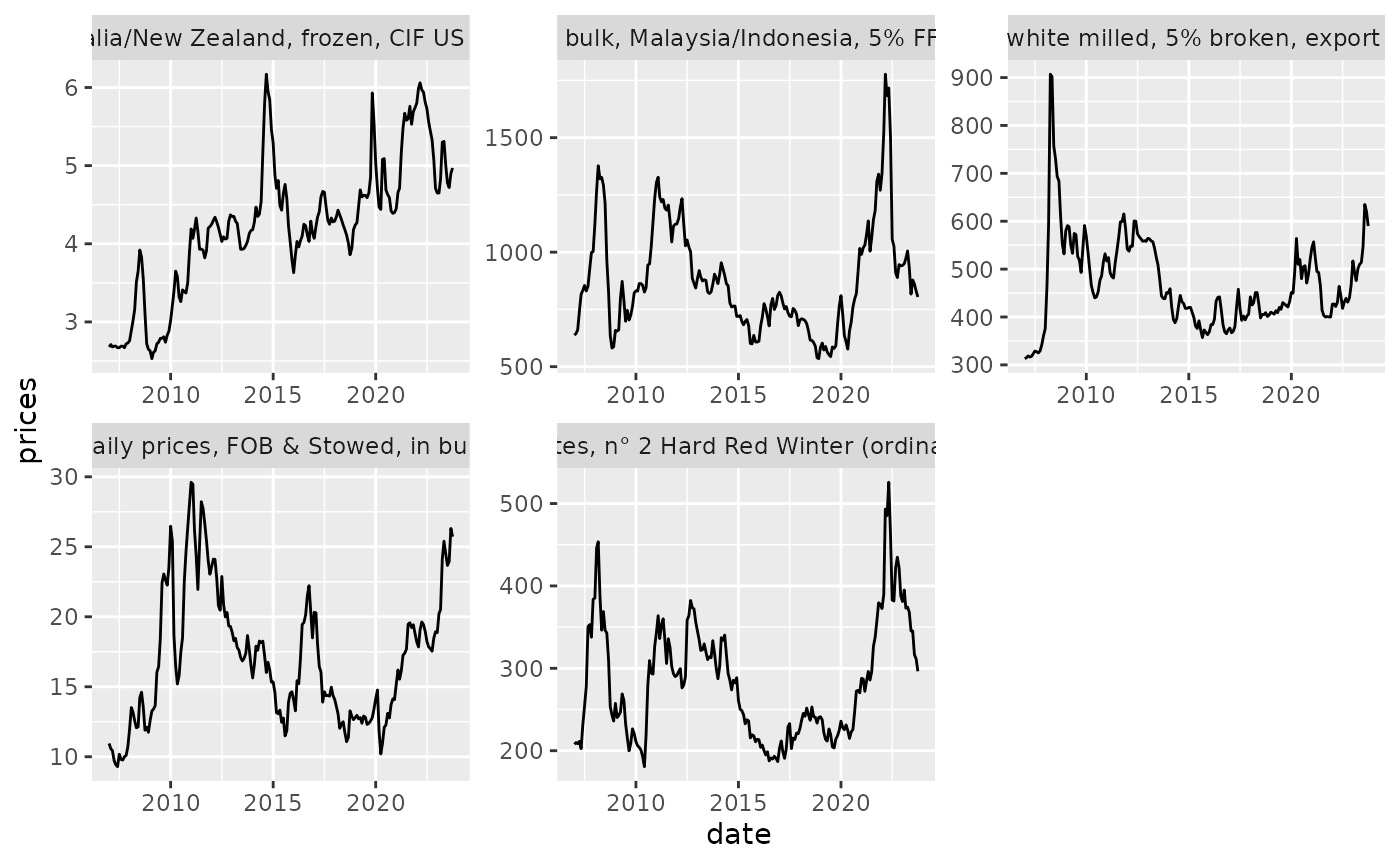
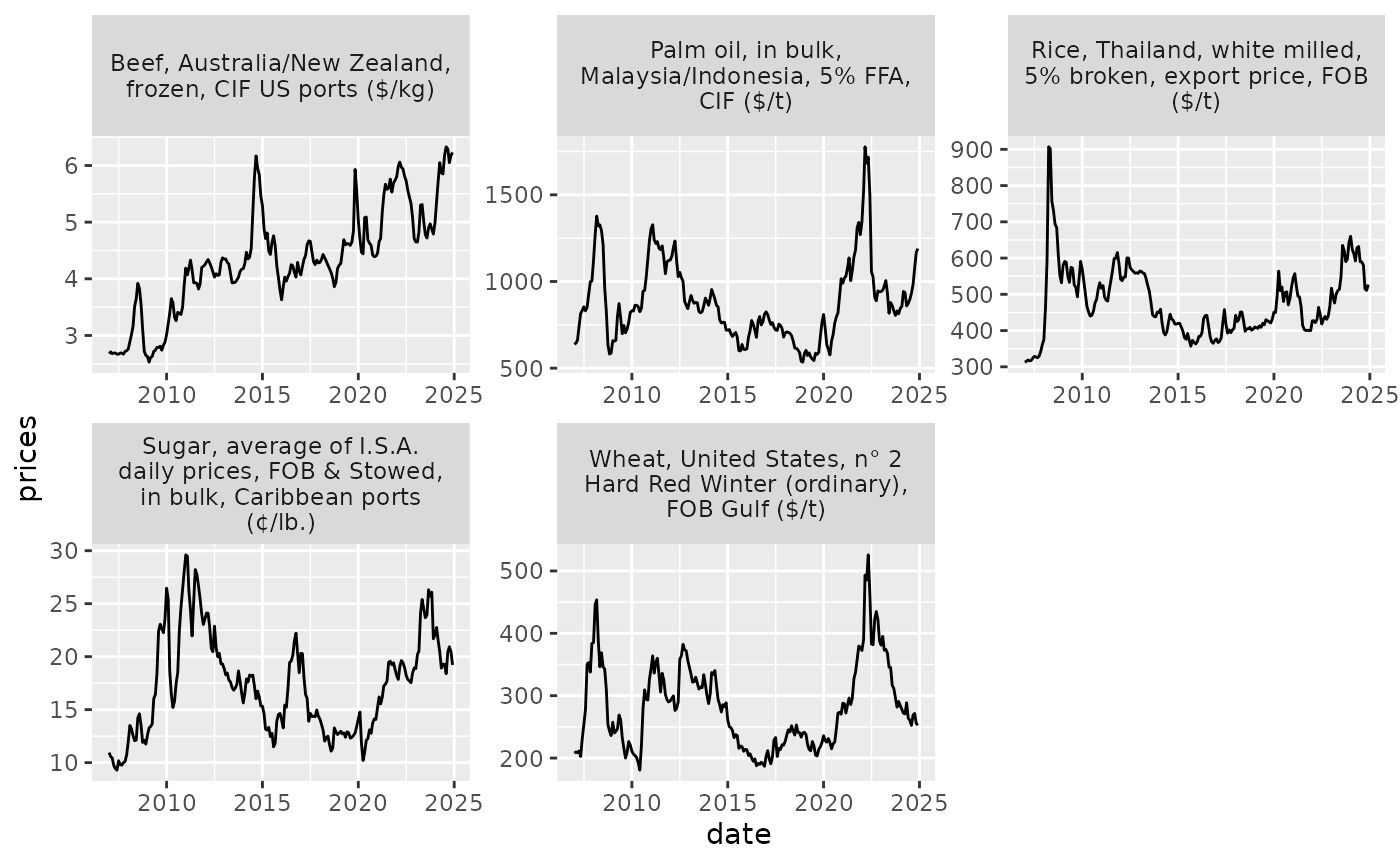
Deploying to gh-pages from @ FoodchainStats/fsp@3c094e2dc6ae31c552e94cc8bbcccd7931658ade 🚀

diff --git a/reference/acquire_unctad.html b/reference/acquire_unctad.html
@@ -1,9 +1,9 @@
 <!DOCTYPE html>
-<!-- Generated by pkgdown: do not edit by hand --><html lang="en"><head><meta http-equiv="Content-Type" content="text/html; charset=UTF-8"><meta charset="utf-8"><meta http-equiv="X-UA-Compatible" content="IE=edge"><meta name="viewport" content="width=device-width, initial-scale=1, shrink-to-fit=no"><title>Extract UNCTAD Commodity Price indices — acquire_unctad • fsp</title><script src="../deps/jquery-3.6.0/jquery-3.6.0.min.js"></script><meta name="viewport" content="width=device-width, initial-scale=1, shrink-to-fit=no"><link href="../deps/bootstrap-5.3.1/bootstrap.min.css" rel="stylesheet"><script src="../deps/bootstrap-5.3.1/bootstrap.bundle.min.js"></script><link href="../deps/font-awesome-6.5.2/css/all.min.css" rel="stylesheet"><link href="../deps/font-awesome-6.5.2/css/v4-shims.min.css" rel="stylesheet"><script src="../deps/headroom-0.11.0/headroom.min.js"></script><script src="../deps/headroom-0.11.0/jQuery.headroom.min.js"></script><script src="../deps/bootstrap-toc-1.0.1/bootstrap-toc.min.js"></script><script src="../deps/clipboard.js-2.0.11/clipboard.min.js"></script><script src="../deps/search-1.0.0/autocomplete.jquery.min.js"></script><script src="../deps/search-1.0.0/fuse.min.js"></script><script src="../deps/search-1.0.0/mark.min.js"></script><!-- pkgdown --><script src="../pkgdown.js"></script><meta property="og:title" content="Extract UNCTAD Commodity Price indices — acquire_unctad"><meta name="description" content="UNCTAD data is in 7zip format, and for now at least needs to be downloaded
-manually (see url_unctad()). Internally uses the archive library which
-requires libarchive-dev to be installed on Ubuntu machines."><meta property="og:description" content="UNCTAD data is in 7zip format, and for now at least needs to be downloaded
-manually (see url_unctad()). Internally uses the archive library which
-requires libarchive-dev to be installed on Ubuntu machines."></head><body>
+<!-- Generated by pkgdown: do not edit by hand --><html lang="en"><head><meta http-equiv="Content-Type" content="text/html; charset=UTF-8"><meta charset="utf-8"><meta http-equiv="X-UA-Compatible" content="IE=edge"><meta name="viewport" content="width=device-width, initial-scale=1, shrink-to-fit=no"><title>Extract UNCTAD Commodity Price indices — acquire_unctad • fsp</title><script src="../deps/jquery-3.6.0/jquery-3.6.0.min.js"></script><meta name="viewport" content="width=device-width, initial-scale=1, shrink-to-fit=no"><link href="../deps/bootstrap-5.3.1/bootstrap.min.css" rel="stylesheet"><script src="../deps/bootstrap-5.3.1/bootstrap.bundle.min.js"></script><link href="../deps/font-awesome-6.5.2/css/all.min.css" rel="stylesheet"><link href="../deps/font-awesome-6.5.2/css/v4-shims.min.css" rel="stylesheet"><script src="../deps/headroom-0.11.0/headroom.min.js"></script><script src="../deps/headroom-0.11.0/jQuery.headroom.min.js"></script><script src="../deps/bootstrap-toc-1.0.1/bootstrap-toc.min.js"></script><script src="../deps/clipboard.js-2.0.11/clipboard.min.js"></script><script src="../deps/search-1.0.0/autocomplete.jquery.min.js"></script><script src="../deps/search-1.0.0/fuse.min.js"></script><script src="../deps/search-1.0.0/mark.min.js"></script><!-- pkgdown --><script src="../pkgdown.js"></script><meta property="og:title" content="Extract UNCTAD Commodity Price indices — acquire_unctad"><meta name="description" content="Downloads and unzips UNCTAD data (see url_unctad()). Internally uses the
+archive library which requires libarchive-dev to be installed on Ubuntu
+machines."><meta property="og:description" content="Downloads and unzips UNCTAD data (see url_unctad()). Internally uses the
+archive library which requires libarchive-dev to be installed on Ubuntu
+machines."></head><body>
     <a href="#main" class="visually-hidden-focusable">Skip to contents</a>
 
 
@@ -43,25 +43,21 @@ requires libarchive-dev to be installed on Ubuntu machines."></head><body>
     </div>
 
     <div class="ref-description section level2">
-    <p>UNCTAD data is in 7zip format, and for now at least needs to be downloaded
-manually (see <code><a href="url_unctad.html">url_unctad()</a></code>). Internally uses the <code>archive</code> library which
-requires libarchive-dev to be installed on Ubuntu machines.</p>
+    <p>Downloads and unzips UNCTAD data (see <code><a href="url_unctad.html">url_unctad()</a></code>). Internally uses the
+<code>archive</code> library which requires libarchive-dev to be installed on Ubuntu
+machines.</p>
     </div>
 
     <div class="section level2">
     <h2 id="ref-usage">Usage<a class="anchor" aria-label="anchor" href="#ref-usage"></a></h2>
-    <div class="sourceCode"><pre class="sourceCode r"><code><span><span class="fu">acquire_unctad</span><span class="op">(</span><span class="va">file</span>, <span class="va">path</span><span class="op">)</span></span></code></pre></div>
+    <div class="sourceCode"><pre class="sourceCode r"><code><span><span class="fu">acquire_unctad</span><span class="op">(</span><span class="va">path</span><span class="op">)</span></span></code></pre></div>
     </div>
 
     <div class="section level2">
     <h2 id="arguments">Arguments<a class="anchor" aria-label="anchor" href="#arguments"></a></h2>
 
 
-<dl><dt id="arg-file">file<a class="anchor" aria-label="anchor" href="#arg-file"></a></dt>
-<dd><p>downloaded UNCTAD commodity data file in 7zip format</p></dd>
-
-
-<dt id="arg-path">path<a class="anchor" aria-label="anchor" href="#arg-path"></a></dt>
+<dl><dt id="arg-path">path<a class="anchor" aria-label="anchor" href="#arg-path"></a></dt>
 <dd><p>Folder to put the downloaded data in. If missing a tempfile will
 be created. If specified the downloaded file will be named
 'commodityprices.csv'.</p></dd>
@@ -80,12 +76,12 @@ be created. If specified the downloaded file will be named
 
     <div class="section level2">
     <h2 id="ref-examples">Examples<a class="anchor" aria-label="anchor" href="#ref-examples"></a></h2>
-    <div class="sourceCode"><pre class="sourceCode r"><code><span class="r-in"><span></span></span>
-<span class="r-in"><span><span class="va">a</span> <span class="op">&lt;-</span> <span class="fu"><a href="https://rdrr.io/r/base/system.file.html" class="external-link">system.file</a></span><span class="op">(</span><span class="st">"extdata"</span>, <span class="st">"unctad-example.csv.7z"</span>, package <span class="op">=</span> <span class="st">"fsp"</span><span class="op">)</span></span></span>
+    <div class="sourceCode"><pre class="sourceCode r"><code><span class="r-in"><span><span class="kw">if</span> <span class="op">(</span><span class="cn">FALSE</span><span class="op">)</span> <span class="op">{</span> <span class="co"># \dontrun{</span></span></span>
+<span class="r-in"><span><span class="va">a</span> <span class="op">&lt;-</span> <span class="fu">acquire_unctad</span><span class="op">(</span><span class="va">a</span><span class="op">)</span></span></span>
 <span class="r-in"><span><span class="va">a</span></span></span>
-<span class="r-out co"><span class="r-pr">#&gt;</span> [1] "/home/runner/work/_temp/Library/fsp/extdata/unctad-example.csv.7z"</span>
-<span class="r-in"><span><span class="fu">acquire_unctad</span><span class="op">(</span><span class="va">a</span><span class="op">)</span></span></span>
-<span class="r-out co"><span class="r-pr">#&gt;</span> [1] "/tmp/RtmpBiI4ut/file1d95329b787b/US_CommodityPrice_M_20231206030105.csv"</span>
+<span class="r-in"><span></span></span>
+<span class="r-in"><span><span class="fu">acquire_unctad</span><span class="op">(</span><span class="st">"~/downloads"</span><span class="op">)</span></span></span>
+<span class="r-in"><span><span class="op">}</span> <span class="co"># }</span></span></span>
 </code></pre></div>
     </div>
   </main><aside class="col-md-3"><nav id="toc" aria-label="Table of contents"><h2>On this page</h2>

diff --git a/articles/unctad.html b/articles/unctad.html
@@ -68,11 +68,17 @@
     
 <div class="sourceCode" id="cb1"><pre class="downlit sourceCode r">
 <code class="sourceCode R"><span><span class="kw"><a href="https://rdrr.io/r/base/library.html" class="external-link">library</a></span><span class="op">(</span><span class="va"><a href="https://foodchainstats.github.io/fsp/">fsp</a></span><span class="op">)</span></span>
-<span><span class="va">a</span> <span class="op">&lt;-</span> <span class="fu"><a href="https://rdrr.io/r/base/system.file.html" class="external-link">system.file</a></span><span class="op">(</span><span class="st">"extdata"</span>, <span class="st">"unctad-example.csv.7z"</span>, package <span class="op">=</span> <span class="st">"fsp"</span><span class="op">)</span></span>
+<span></span>
+<span><span class="va">a</span> <span class="op">&lt;-</span> <span class="fu"><a href="../reference/acquire_unctad.html">acquire_unctad</a></span><span class="op">(</span><span class="op">)</span></span>
+<span></span>
 <span><span class="va">unctad</span> <span class="op">&lt;-</span> <span class="fu"><a href="../reference/get_unctad.html">get_unctad</a></span><span class="op">(</span><span class="va">a</span><span class="op">)</span></span>
 <span><span class="va">metadata</span> <span class="op">&lt;-</span> <span class="fu"><a href="../reference/get_unctad_metadata.html">get_unctad_metadata</a></span><span class="op">(</span><span class="va">a</span><span class="op">)</span></span>
 <span></span>
-<span><span class="va">commodities</span> <span class="op">&lt;-</span> <span class="fu"><a href="https://rdrr.io/r/base/c.html" class="external-link">c</a></span><span class="op">(</span><span class="st">"100600.01"</span>, <span class="st">"151110.01"</span>, <span class="st">"020100.01"</span>, <span class="st">"100100.01"</span>, <span class="st">"170100.01"</span><span class="op">)</span></span>
+<span><span class="va">commodities</span> <span class="op">&lt;-</span> <span class="fu"><a href="https://rdrr.io/r/base/c.html" class="external-link">c</a></span><span class="op">(</span><span class="st">"100600.01"</span>,</span>
+<span>                 <span class="st">"151110.01"</span>, </span>
+<span>                 <span class="st">"020100.01"</span>,</span>
+<span>                 <span class="st">"100100.01"</span>, </span>
+<span>                 <span class="st">"170100.01"</span><span class="op">)</span></span>
 <span></span>
 <span><span class="va">unctad</span> <span class="op">|&gt;</span> </span>
 <span>  <span class="fu">dplyr</span><span class="fu">::</span><span class="fu"><a href="https://dplyr.tidyverse.org/reference/filter.html" class="external-link">filter</a></span><span class="op">(</span><span class="va">commodity</span> <span class="op"><a href="https://rdrr.io/r/base/match.html" class="external-link">%in%</a></span> <span class="va">commodities</span>, <span class="va">date</span> <span class="op">&gt;=</span> <span class="st">"2007-01-01"</span><span class="op">)</span> <span class="op">|&gt;</span> </span>
@@ -80,7 +86,9 @@
 <span>  <span class="fu">dplyr</span><span class="fu">::</span><span class="fu"><a href="https://dplyr.tidyverse.org/reference/mutate.html" class="external-link">mutate</a></span><span class="op">(</span>index <span class="op">=</span> <span class="va">prices</span><span class="op">/</span><span class="fu">dplyr</span><span class="fu">::</span><span class="fu"><a href="https://dplyr.tidyverse.org/reference/lead-lag.html" class="external-link">lag</a></span><span class="op">(</span><span class="va">prices</span><span class="op">)</span><span class="op">)</span> <span class="op">|&gt;</span> </span>
 <span>  <span class="fu">ggplot2</span><span class="fu">::</span><span class="fu"><a href="https://ggplot2.tidyverse.org/reference/ggplot.html" class="external-link">ggplot</a></span><span class="op">(</span><span class="op">)</span> <span class="op">+</span></span>
 <span>  <span class="fu">ggplot2</span><span class="fu">::</span><span class="fu"><a href="https://ggplot2.tidyverse.org/reference/geom_path.html" class="external-link">geom_line</a></span><span class="op">(</span><span class="fu">ggplot2</span><span class="fu">::</span><span class="fu"><a href="https://ggplot2.tidyverse.org/reference/aes.html" class="external-link">aes</a></span><span class="op">(</span>x <span class="op">=</span> <span class="va">date</span>, y <span class="op">=</span> <span class="va">prices</span><span class="op">)</span><span class="op">)</span> <span class="op">+</span></span>
-<span>  <span class="fu">ggplot2</span><span class="fu">::</span><span class="fu"><a href="https://ggplot2.tidyverse.org/reference/facet_wrap.html" class="external-link">facet_wrap</a></span><span class="op">(</span><span class="fu">ggplot2</span><span class="fu">::</span><span class="fu"><a href="https://ggplot2.tidyverse.org/reference/vars.html" class="external-link">vars</a></span><span class="op">(</span><span class="va">commodity_label</span><span class="op">)</span>,scales <span class="op">=</span> <span class="st">"free"</span><span class="op">)</span></span></code></pre></div>
+<span>  <span class="fu">ggplot2</span><span class="fu">::</span><span class="fu"><a href="https://ggplot2.tidyverse.org/reference/facet_wrap.html" class="external-link">facet_wrap</a></span><span class="op">(</span><span class="fu">ggplot2</span><span class="fu">::</span><span class="fu"><a href="https://ggplot2.tidyverse.org/reference/vars.html" class="external-link">vars</a></span><span class="op">(</span><span class="va">commodity_label</span><span class="op">)</span>, </span>
+<span>                      labeller <span class="op">=</span> <span class="fu">ggplot2</span><span class="fu">::</span><span class="fu"><a href="https://ggplot2.tidyverse.org/reference/labellers.html" class="external-link">label_wrap_gen</a></span><span class="op">(</span><span class="fl">30</span><span class="op">)</span>, </span>
+<span>                      scales <span class="op">=</span> <span class="st">"free"</span><span class="op">)</span></span></code></pre></div>
 <p><img src="unctad_files/figure-html/setup-1.png" width="700"></p>
   </main>
 </div>

diff --git a/reference/get_unctad.html b/reference/get_unctad.html
@@ -52,8 +52,8 @@
 
 
 <dl><dt id="arg-file">file<a class="anchor" aria-label="anchor" href="#arg-file"></a></dt>
-<dd><p>An UNCTAD 7zip download file (see <code><a href="url_unctad.html">url_unctad()</a></code> for where to get
-it)</p></dd>
+<dd><p>An UNCTAD download file (see <code><a href="acquire_unctad.html">acquire_unctad()</a></code>). If omitted data
+will be downloaded automatically</p></dd>
 
 </dl></div>
     <div class="section level2">
@@ -69,27 +69,13 @@ it)</p></dd>
 
     <div class="section level2">
     <h2 id="ref-examples">Examples<a class="anchor" aria-label="anchor" href="#ref-examples"></a></h2>
-    <div class="sourceCode"><pre class="sourceCode r"><code><span class="r-in"><span></span></span>
-<span class="r-in"><span><span class="va">a</span> <span class="op">&lt;-</span> <span class="fu"><a href="https://rdrr.io/r/base/system.file.html" class="external-link">system.file</a></span><span class="op">(</span><span class="st">"extdata"</span>, <span class="st">"unctad-example.csv.7z"</span>, package <span class="op">=</span> <span class="st">"fsp"</span><span class="op">)</span></span></span>
-<span class="r-in"><span><span class="va">a</span></span></span>
-<span class="r-out co"><span class="r-pr">#&gt;</span> [1] "/home/runner/work/_temp/Library/fsp/extdata/unctad-example.csv.7z"</span>
-<span class="r-in"><span><span class="fu">get_unctad</span><span class="op">(</span><span class="va">a</span><span class="op">)</span></span></span>
-<span class="r-out co"><span class="r-pr">#&gt;</span> <span style="color: #949494;"># A tibble: 18,910 × 6</span></span>
-<span class="r-out co"><span class="r-pr">#&gt;</span>    date       commodity commodity_label                   prices prices_footnote</span>
-<span class="r-out co"><span class="r-pr">#&gt;</span>    <span style="color: #949494; font-style: italic;">&lt;date&gt;</span>     <span style="color: #949494; font-style: italic;">&lt;chr&gt;</span>     <span style="color: #949494; font-style: italic;">&lt;chr&gt;</span>                              <span style="color: #949494; font-style: italic;">&lt;dbl&gt;</span> <span style="color: #949494; font-style: italic;">&lt;chr&gt;</span>          </span>
-<span class="r-out co"><span class="r-pr">#&gt;</span> <span style="color: #BCBCBC;"> 1</span> 1995-01-01 IN0001.20 All groups                         <span style="color: #BB0000;">NA</span>    <span style="color: #BB0000;">NA</span>             </span>
-<span class="r-out co"><span class="r-pr">#&gt;</span> <span style="color: #BCBCBC;"> 2</span> 1995-01-01 IN0001.01 All food                           <span style="color: #BB0000;">NA</span>    <span style="color: #BB0000;">NA</span>             </span>
-<span class="r-out co"><span class="r-pr">#&gt;</span> <span style="color: #BCBCBC;"> 3</span> 1995-01-01 IN0001.02 Food                               <span style="color: #BB0000;">NA</span>    <span style="color: #BB0000;">NA</span>             </span>
-<span class="r-out co"><span class="r-pr">#&gt;</span> <span style="color: #BCBCBC;"> 4</span> 1995-01-01 080300.01 Bananas, Central and South Ameri…   0.35 <span style="color: #BB0000;">NA</span>             </span>
-<span class="r-out co"><span class="r-pr">#&gt;</span> <span style="color: #BCBCBC;"> 5</span> 1995-01-01 020100.01 Beef, Australia/New Zealand, fro…   2.12 <span style="color: #BB0000;">NA</span>             </span>
-<span class="r-out co"><span class="r-pr">#&gt;</span> <span style="color: #BCBCBC;"> 6</span> 1995-01-01 100500.01 Maize, Argentina, Rosario, Up Ri… 105.   <span style="color: #BB0000;">NA</span>             </span>
-<span class="r-out co"><span class="r-pr">#&gt;</span> <span style="color: #BCBCBC;"> 7</span> 1995-01-01 100500.02 Maize, United States, n° 3 yello… 109.   <span style="color: #BB0000;">NA</span>             </span>
-<span class="r-out co"><span class="r-pr">#&gt;</span> <span style="color: #BCBCBC;"> 8</span> 1995-01-01 100600.01 Rice, Thailand, white milled, 5%… 277.   <span style="color: #BB0000;">NA</span>             </span>
-<span class="r-out co"><span class="r-pr">#&gt;</span> <span style="color: #BCBCBC;"> 9</span> 1995-01-01 030212.01 Salmon, fresh, fish-farm bred, e…   4.81 <span style="color: #BB0000;">NA</span>             </span>
-<span class="r-out co"><span class="r-pr">#&gt;</span> <span style="color: #BCBCBC;">10</span> 1995-01-01 030613.01 Shrimps, brown, no. 1, shell-on,…  13.4  <span style="color: #BB0000;">NA</span>             </span>
-<span class="r-out co"><span class="r-pr">#&gt;</span> <span style="color: #949494;"># ℹ 18,900 more rows</span></span>
-<span class="r-out co"><span class="r-pr">#&gt;</span> <span style="color: #949494;"># ℹ 1 more variable: prices_missing_value &lt;chr&gt;</span></span>
+    <div class="sourceCode"><pre class="sourceCode r"><code><span class="r-in"><span><span class="kw">if</span> <span class="op">(</span><span class="cn">FALSE</span><span class="op">)</span> <span class="op">{</span> <span class="co"># \dontrun{</span></span></span>
+<span class="r-in"><span><span class="va">data</span> <span class="op">&lt;-</span> <span class="fu">get_unctad</span><span class="op">(</span><span class="op">)</span></span></span>
 <span class="r-in"><span></span></span>
+<span class="r-in"><span><span class="fu"><a href="acquire_unctad.html">acquire_unctad</a></span><span class="op">(</span><span class="st">"~/downloads"</span><span class="op">)</span></span></span>
+<span class="r-in"><span></span></span>
+<span class="r-in"><span><span class="fu">get_unctad</span><span class="op">(</span><span class="st">"~/downloads/commodityprices.csv"</span><span class="op">)</span></span></span>
+<span class="r-in"><span><span class="op">}</span> <span class="co"># }</span></span></span>
 </code></pre></div>
     </div>
   </main><aside class="col-md-3"><nav id="toc" aria-label="Table of contents"><h2>On this page</h2>

diff --git a/reference/url_unctad.html b/reference/url_unctad.html
@@ -1,15 +1,11 @@
 <!DOCTYPE html>
-<!-- Generated by pkgdown: do not edit by hand --><html lang="en"><head><meta http-equiv="Content-Type" content="text/html; charset=UTF-8"><meta charset="utf-8"><meta http-equiv="X-UA-Compatible" content="IE=edge"><meta name="viewport" content="width=device-width, initial-scale=1, shrink-to-fit=no"><title>URL for UNCTAD commodity price indices data — url_unctad • fsp</title><script src="../deps/jquery-3.6.0/jquery-3.6.0.min.js"></script><meta name="viewport" content="width=device-width, initial-scale=1, shrink-to-fit=no"><link href="../deps/bootstrap-5.3.1/bootstrap.min.css" rel="stylesheet"><script src="../deps/bootstrap-5.3.1/bootstrap.bundle.min.js"></script><link href="../deps/font-awesome-6.5.2/css/all.min.css" rel="stylesheet"><link href="../deps/font-awesome-6.5.2/css/v4-shims.min.css" rel="stylesheet"><script src="../deps/headroom-0.11.0/headroom.min.js"></script><script src="../deps/headroom-0.11.0/jQuery.headroom.min.js"></script><script src="../deps/bootstrap-toc-1.0.1/bootstrap-toc.min.js"></script><script src="../deps/clipboard.js-2.0.11/clipboard.min.js"></script><script src="../deps/search-1.0.0/autocomplete.jquery.min.js"></script><script src="../deps/search-1.0.0/fuse.min.js"></script><script src="../deps/search-1.0.0/mark.min.js"></script><!-- pkgdown --><script src="../pkgdown.js"></script><meta property="og:title" content="URL for UNCTAD commodity price indices data — url_unctad"><meta name="description" content='Currently the data cannot be scraped (or I am not clever enough to do so),
-and so this function simply returns the url where it can be manually
-downloaded. The file is a 7zip archive. The acquire_unctad(), get_unctad()
-and get_unctad_metadata() functions all require access to a downloaded
-7zip. This package includes an example file - access it using:
-system.file("extdata", "unctad-example.csv.7z", package = "fsp")'><meta property="og:description" content='Currently the data cannot be scraped (or I am not clever enough to do so),
-and so this function simply returns the url where it can be manually
-downloaded. The file is a 7zip archive. The acquire_unctad(), get_unctad()
-and get_unctad_metadata() functions all require access to a downloaded
-7zip. This package includes an example file - access it using:
-system.file("extdata", "unctad-example.csv.7z", package = "fsp")'></head><body>
+<!-- Generated by pkgdown: do not edit by hand --><html lang="en"><head><meta http-equiv="Content-Type" content="text/html; charset=UTF-8"><meta charset="utf-8"><meta http-equiv="X-UA-Compatible" content="IE=edge"><meta name="viewport" content="width=device-width, initial-scale=1, shrink-to-fit=no"><title>URL for UNCTAD commodity price indices data — url_unctad • fsp</title><script src="../deps/jquery-3.6.0/jquery-3.6.0.min.js"></script><meta name="viewport" content="width=device-width, initial-scale=1, shrink-to-fit=no"><link href="../deps/bootstrap-5.3.1/bootstrap.min.css" rel="stylesheet"><script src="../deps/bootstrap-5.3.1/bootstrap.bundle.min.js"></script><link href="../deps/font-awesome-6.5.2/css/all.min.css" rel="stylesheet"><link href="../deps/font-awesome-6.5.2/css/v4-shims.min.css" rel="stylesheet"><script src="../deps/headroom-0.11.0/headroom.min.js"></script><script src="../deps/headroom-0.11.0/jQuery.headroom.min.js"></script><script src="../deps/bootstrap-toc-1.0.1/bootstrap-toc.min.js"></script><script src="../deps/clipboard.js-2.0.11/clipboard.min.js"></script><script src="../deps/search-1.0.0/autocomplete.jquery.min.js"></script><script src="../deps/search-1.0.0/fuse.min.js"></script><script src="../deps/search-1.0.0/mark.min.js"></script><!-- pkgdown --><script src="../pkgdown.js"></script><meta property="og:title" content="URL for UNCTAD commodity price indices data — url_unctad"><meta name="description" content='When pasted into a browser, the url will download a file in the form of a
+7zip archive. The acquire_unctad(), get_unctad() and
+get_unctad_metadata() functions will download and unzip this file. This
+package includes an example file - access it using: system.file("extdata", "unctad-example.csv.7z", package = "fsp")'><meta property="og:description" content='When pasted into a browser, the url will download a file in the form of a
+7zip archive. The acquire_unctad(), get_unctad() and
+get_unctad_metadata() functions will download and unzip this file. This
+package includes an example file - access it using: system.file("extdata", "unctad-example.csv.7z", package = "fsp")'></head><body>
     <a href="#main" class="visually-hidden-focusable">Skip to contents</a>
 
 
@@ -49,12 +45,10 @@ system.file("extdata", "unctad-example.csv.7z", package = "fsp")'></head><body>
     </div>
 
     <div class="ref-description section level2">
-    <p>Currently the data cannot be scraped (or I am not clever enough to do so),
-and so this function simply returns the url where it can be manually
-downloaded. The file is a 7zip archive. The <code><a href="acquire_unctad.html">acquire_unctad()</a></code>, <code><a href="get_unctad.html">get_unctad()</a></code>
-and <code><a href="get_unctad_metadata.html">get_unctad_metadata()</a></code> functions all require access to a downloaded
-7zip. This package includes an example file - access it using:
-<code>system.file("extdata", "unctad-example.csv.7z", package = "fsp")</code></p>
+    <p>When pasted into a browser, the url will download a file in the form of a
+7zip archive. The <code><a href="acquire_unctad.html">acquire_unctad()</a></code>, <code><a href="get_unctad.html">get_unctad()</a></code> and
+<code><a href="get_unctad_metadata.html">get_unctad_metadata()</a></code> functions will download and unzip this file. This
+package includes an example file - access it using: <code>system.file("extdata", "unctad-example.csv.7z", package = "fsp")</code></p>
     </div>
 
     <div class="section level2">

diff --git a/reference/get_unctad_metadata.html b/reference/get_unctad_metadata.html
@@ -52,8 +52,8 @@
 
 
 <dl><dt id="arg-file">file<a class="anchor" aria-label="anchor" href="#arg-file"></a></dt>
-<dd><p>An UNCTAD 7zip download file (see <code><a href="url_unctad.html">url_unctad()</a></code> for where to get
-it)</p></dd>
+<dd><p>An UNCTAD download file (see <code><a href="acquire_unctad.html">acquire_unctad()</a></code>). If omitted data
+will be downloaded automatically</p></dd>
 
 </dl></div>
     <div class="section level2">
@@ -69,24 +69,13 @@ it)</p></dd>
 
     <div class="section level2">
     <h2 id="ref-examples">Examples<a class="anchor" aria-label="anchor" href="#ref-examples"></a></h2>
-    <div class="sourceCode"><pre class="sourceCode r"><code><span class="r-in"><span><span class="va">a</span> <span class="op">&lt;-</span> <span class="fu"><a href="https://rdrr.io/r/base/system.file.html" class="external-link">system.file</a></span><span class="op">(</span><span class="st">"extdata"</span>, <span class="st">"unctad-example.csv.7z"</span>, package <span class="op">=</span> <span class="st">"fsp"</span><span class="op">)</span></span></span>
-<span class="r-in"><span><span class="va">a</span></span></span>
-<span class="r-out co"><span class="r-pr">#&gt;</span> [1] "/home/runner/work/_temp/Library/fsp/extdata/unctad-example.csv.7z"</span>
-<span class="r-in"><span><span class="fu">get_unctad_metadata</span><span class="op">(</span><span class="va">a</span><span class="op">)</span></span></span>
-<span class="r-out co"><span class="r-pr">#&gt;</span> <span style="color: #949494;"># A tibble: 58 × 3</span></span>
-<span class="r-out co"><span class="r-pr">#&gt;</span>    commodity commodity_label                                                   n</span>
-<span class="r-out co"><span class="r-pr">#&gt;</span>    <span style="color: #949494; font-style: italic;">&lt;chr&gt;</span>     <span style="color: #949494; font-style: italic;">&lt;chr&gt;</span>                                                         <span style="color: #949494; font-style: italic;">&lt;int&gt;</span></span>
-<span class="r-out co"><span class="r-pr">#&gt;</span> <span style="color: #BCBCBC;"> 1</span> 020100.01 Beef, Australia/New Zealand, frozen, CIF US ports ($/kg)        346</span>
-<span class="r-out co"><span class="r-pr">#&gt;</span> <span style="color: #BCBCBC;"> 2</span> 030212.01 Salmon, fresh, fish-farm bred, export price, Norway ($/kg)      346</span>
-<span class="r-out co"><span class="r-pr">#&gt;</span> <span style="color: #BCBCBC;"> 3</span> 030613.01 Shrimps, brown, no. 1, shell-on, headless, Mexico ($/kg)        346</span>
-<span class="r-out co"><span class="r-pr">#&gt;</span> <span style="color: #BCBCBC;"> 4</span> 080300.01 Bananas, Central and South America, FOT, US import price ($/…   346</span>
-<span class="r-out co"><span class="r-pr">#&gt;</span> <span style="color: #BCBCBC;"> 5</span> 080300.02 Bananas, Central America, Main Brands (average of US East an…   225</span>
-<span class="r-out co"><span class="r-pr">#&gt;</span> <span style="color: #BCBCBC;"> 6</span> 090100.01 Coffee, Colombian mild Arabicas, ex-dock US (¢/lb.)             346</span>
-<span class="r-out co"><span class="r-pr">#&gt;</span> <span style="color: #BCBCBC;"> 7</span> 090100.02 Coffee, Brazilian and other natural Arabicas, ex-dock USA (¢…   346</span>
-<span class="r-out co"><span class="r-pr">#&gt;</span> <span style="color: #BCBCBC;"> 8</span> 090100.03 Coffee, other mild Arabicas, ex-dock US (¢/lb.)                 346</span>
-<span class="r-out co"><span class="r-pr">#&gt;</span> <span style="color: #BCBCBC;"> 9</span> 090100.04 Coffee, other mild Arabicas, ex-dock EU (¢/lb.)                 346</span>
-<span class="r-out co"><span class="r-pr">#&gt;</span> <span style="color: #BCBCBC;">10</span> 090100.05 Coffee, Robustas, ex-dock US (¢/lb.)                            346</span>
-<span class="r-out co"><span class="r-pr">#&gt;</span> <span style="color: #949494;"># ℹ 48 more rows</span></span>
+    <div class="sourceCode"><pre class="sourceCode r"><code><span class="r-in"><span><span class="kw">if</span> <span class="op">(</span><span class="cn">FALSE</span><span class="op">)</span> <span class="op">{</span> <span class="co"># \dontrun{</span></span></span>
+<span class="r-in"><span><span class="va">metadata</span> <span class="op">&lt;-</span> <span class="fu">get_unctad_metadata</span><span class="op">(</span><span class="op">)</span></span></span>
+<span class="r-in"><span></span></span>
+<span class="r-in"><span><span class="fu"><a href="acquire_unctad.html">acquire_unctad</a></span><span class="op">(</span><span class="st">"~/downloads"</span><span class="op">)</span></span></span>
+<span class="r-in"><span></span></span>
+<span class="r-in"><span><span class="fu">get_unctad_metadata</span><span class="op">(</span><span class="st">"~/downloads/commodityprices.csv"</span><span class="op">)</span>  </span></span>
+<span class="r-in"><span><span class="op">}</span> <span class="co"># }</span></span></span>
 </code></pre></div>
     </div>
   </main><aside class="col-md-3"><nav id="toc" aria-label="Table of contents"><h2>On this page</h2>

diff --git a/articles/jobs03.html b/articles/jobs03.html
@@ -84,12 +84,12 @@
 <span><span class="va">ag_gb</span> <span class="op">&lt;-</span> <span class="fu">fsp</span><span class="fu">::</span><span class="fu"><a href="../reference/compile_ag_workforce.html">compile_ag_workforce</a></span><span class="op">(</span><span class="op">)</span></span>
 <span><span class="va">jobs03</span> <span class="op">&lt;-</span> <span class="fu">fsp</span><span class="fu">::</span><span class="fu"><a href="../reference/get_jobs03.html">get_jobs03</a></span><span class="op">(</span><span class="op">)</span></span>
 <span><span class="co">#&gt; Reading JOBS03</span></span>
-<span><span class="co">#&gt;  <span style="color: #00BB00;">■■■■■                           </span>  13% |  ETA: 15s</span></span>
-<span><span class="co">#&gt;  <span style="color: #00BB00;">■■■■■■■■■■                      </span>  30% |  ETA: 12s</span></span>
-<span><span class="co">#&gt;  <span style="color: #00BB00;">■■■■■■■■■■■■■■■                 </span>  46% |  ETA: 10s</span></span>
-<span><span class="co">#&gt;  <span style="color: #00BB00;">■■■■■■■■■■■■■■■■■■■■            </span>  64% |  ETA:  6s</span></span>
-<span><span class="co">#&gt;  <span style="color: #00BB00;">■■■■■■■■■■■■■■■■■■■■■■■■■       </span>  81% |  ETA:  3s</span></span>
-<span><span class="co">#&gt;  <span style="color: #00BB00;">■■■■■■■■■■■■■■■■■■■■■■■■■■■■■■  </span>  98% |  ETA:  0s</span></span>
+<span><span class="co">#&gt;  <span style="color: #00BB00;">■■■■                            </span>   9% |  ETA: 16s</span></span>
+<span><span class="co">#&gt;  <span style="color: #00BB00;">■■■■■■■■■                       </span>  26% |  ETA: 13s</span></span>
+<span><span class="co">#&gt;  <span style="color: #00BB00;">■■■■■■■■■■■■■■                  </span>  43% |  ETA: 10s</span></span>
+<span><span class="co">#&gt;  <span style="color: #00BB00;">■■■■■■■■■■■■■■■■■■■             </span>  59% |  ETA:  7s</span></span>
+<span><span class="co">#&gt;  <span style="color: #00BB00;">■■■■■■■■■■■■■■■■■■■■■■■■        </span>  77% |  ETA:  4s</span></span>
+<span><span class="co">#&gt;  <span style="color: #00BB00;">■■■■■■■■■■■■■■■■■■■■■■■■■■■■■   </span>  94% |  ETA:  1s</span></span>
 <span></span>
 <span><span class="va">food</span> <span class="op">&lt;-</span> <span class="fu">fsp</span><span class="fu">::</span><span class="fu"><a href="../reference/jobs03_sectors.html">jobs03_sectors</a></span><span class="op">(</span>include_total <span class="op">=</span> <span class="cn">FALSE</span><span class="op">)</span> <span class="op">|&gt;</span> </span>
 <span>  <span class="fu">dplyr</span><span class="fu">::</span><span class="fu"><a href="https://dplyr.tidyverse.org/reference/mutate-joins.html" class="external-link">left_join</a></span><span class="op">(</span><span class="va">jobs03</span>, by <span class="op">=</span> <span class="fu">dplyr</span><span class="fu">::</span><span class="fu"><a href="https://dplyr.tidyverse.org/reference/join_by.html" class="external-link">join_by</a></span><span class="op">(</span><span class="va">sic_division</span><span class="op">)</span><span class="op">)</span> <span class="op">|&gt;</span> </span>
